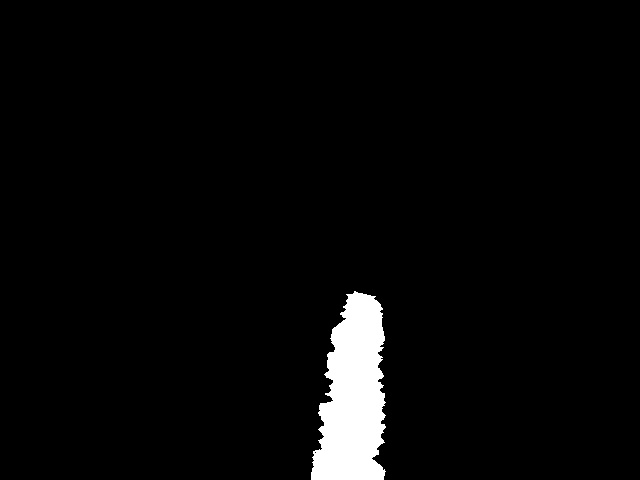
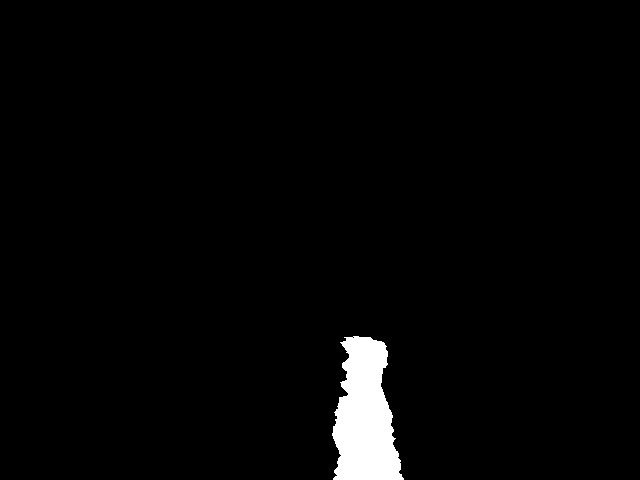
added a bunch tuning

Changed region(s): [[0.4688, 0.5938, 0.625, 1.0], [0.5625, 0.8438, 0.625, 1.0]]

diff --git a/code/src/brains/autonomous.py b/code/src/brains/autonomous.py
@@ -38,7 +38,7 @@ class Brain(base.Brain):
 
         # Find contours in the mask
         contours, _ = cv2.findContours(mask, cv2.RETR_TREE, cv2.CHAIN_APPROX_SIMPLE)
-
+        self.vehicle.stop()
         next_state = None
         if contours:
             # Assume the largest contour is the blue line
@@ -52,11 +52,21 @@ class Brain(base.Brain):
                 
                 img_center = image.shape[1] // 2  # Get the center x-coordinate of the image
                 
-                if cx < img_center - 50:  # Threshold to avoid minor deviations
-                    self.vehicle.turn_left(0.5)
+                # if cx < img_center - 50:  # Threshold to avoid minor deviations
+                #     self.vehicle.pivot_left(0.45)
+                #     print("Pivoting left")
+                # elif cx > img_center + 50:
+                #     self.vehicle.pivot_right(0.45)
+                #     print("Pivoting right")
+                # else:
+                #     self.vehicle.drive_forward(0.5) # TODO: tune
+                #     print("Driving forward")
+                
+                if cx < img_center - 75:  # Threshold to avoid minor deviations
+                    self.vehicle.turn_left(0.45)
                     print("Turning left")
-                elif cx > img_center + 50:
-                    self.vehicle.turn_right(0.5)
+                elif cx > img_center + 75:
+                    self.vehicle.turn_right(0.45)
                     print("Turning right")
                 else:
                     self.vehicle.drive_forward(0.6) # TODO: tune
@@ -65,11 +75,12 @@ class Brain(base.Brain):
                 next_state = "forward"
             else:
                 print("Contour too small or not detected")  # Default action if contour is too small or not detected
-                # self.vehicle.stop()
+                self.vehicle.stop()
                 next_state = "forward"
                 # TODO: do something different maybe
         else:
             print("No blue line detected")  # Default action if no blue line is detected
+            self.vehicle.stop()
             next_state = "forward"
             # TODO: do something different maybe
             
@@ -87,24 +98,92 @@ class Brain(base.Brain):
         # self.vehicle.pivot_left(0.4) # TODO: tune # whatever number is here (will have to test) Turning right to then go forward and avoid obstacle
         # time.sleep(1) # TODO: tune # whatever number is here (will have to test)  Turning right to then go forward and avoid obstacle
         self.vehicle.rotate_right()
-
-        # time.sleep(0.5)
-        print(self.distance_sensors[1].distance)
+         
         while self.distance_sensors[1].distance != 1.0: # TODO: tune # while the distance from the left sensor to the obstacle is < 0.6, move forward
-            self.vehicle.drive_forward(1) # TODO: tune
+            print(self.distance_sensors[1].distance)
+            self.vehicle.stop()
+            if self.distance_sensors[1].distance < 0.06:
+                # self.vehicle.pivot_right(0.4)
+                self.vehicle.turn_right(0.6)
+                time.sleep(0.15)
+            elif 0.05 <= self.distance_sensors[1].distance < 0.22:
+                self.vehicle.drive_forward(0.6)
+                time.sleep(0.15)
+            elif self.distance_sensors[1].distance == 1.0:
+                while self.distance_sensors[1].distance == 1.0:
+                    self.vehicle.turn_left(0.6)
+                    time.sleep(0.15)
+                    self.vehicle.stop()
+                    time.sleep(0.1)
+            else:
+                # self.vehicle.pivot_left(0.4)
+                self.vehicle.turn_left(0.45)
+                time.sleep(0.15)
+            # self.vehicle.drive_forward(0.8) # TODO: tune
             # self.vehicle.drive(0.5, True, 0.5, True)
-        
-        print(self.distance_sensors[1].distance)
-        self.vehicle.stop()
-        self.vehicle.rotate_left() # TODO: tune # whatever number is here (will have to test)  Turning left to then go forward and avoid obstacle
-        
-        print(self.distance_sensors[1].distance)
-        while self.distance_sensors[1].distance != 1.0: # TODO: tune # while the distance from the left sensor to the obstacle is < 0.6, move forward
-            self.vehicle.drive_forward(1) # TODO: tune
+            
+        # while self.distance_sensors[1].distance > 0.6:
+        #     self.vehicle.pivot_left(0.6)
+            
             
         print(self.distance_sensors[1].distance)
         self.vehicle.stop()
-        self.vehicle.rotate_left() 
+        time.sleep(0.1)
+        
+        # print("turning left")
+        while self.distance_sensors[1].distance == 1.0:
+            self.vehicle.turn_left(0.6)
+            time.sleep(0.15)
+            self.vehicle.stop()
+            time.sleep(0.1)
+        # self.vehicle.turn_left(0.6)
+        # time.sleep(0.45)
+        # self.vehicle.stop()
+        # time.sleep(0.1)
+        
+        print("driving forward")
+        self.vehicle.drive_forward(0.6)
+        time.sleep(0.6)
+        self.vehicle.stop()
+        time.sleep(0.1)
+        
+        while self.distance_sensors[1].distance == 1.0:
+            self.vehicle.turn_left(0.6)
+            time.sleep(0.15)
+            self.vehicle.stop()
+            time.sleep(0.1)
+        
+        print(self.distance_sensors[1].distance)
+        while self.distance_sensors[1].distance != 1.0:
+            print("starting on right edge")
+            print(self.distance_sensors[1].distance)
+            self.vehicle.stop()
+            if self.distance_sensors[1].distance < 0.05:
+                # self.vehicle.pivot_right(0.4)
+                self.vehicle.turn_right(0.6)
+                time.sleep(0.15)
+            elif 0.05 <= self.distance_sensors[1].distance < 0.25:
+                self.vehicle.drive_forward(0.6)
+                time.sleep(0.15)
+            else:
+                # self.vehicle.pivot_left(0.4)
+                self.vehicle.turn_left(0.6)
+                time.sleep(0.15)
+        
+        
+        # # while self.distance_sensors[1].distance > 0.6:
+        # # self.vehicle.rotate_left() # TODO: tune # whatever number is here (will have to test)  Turning left to then go forward and avoid obstacle
+        
+        # print(self.distance_sensors[1].distance)
+        # while self.distance_sensors[1].distance != 1.0: # TODO: tune # while the distance from the left sensor to the obstacle is < 0.6, move forward
+        #     self.vehicle.drive_forward(1) # TODO: tune
+            
+        # print(self.distance_sensors[1].distance)
+        # self.vehicle.stop()
+        # self.vehicle.rotate_left() 
+        
+        
+        
         # stop when cleared obstacle horizontally 
         # self.vehicle.pivot_right(0.4) # Turning left to then go forward and get around obstacle
         # time.sleep(0.2) # Turning left to then go forward to get around obstacle 

diff --git a/code/src/vehicle.py b/code/src/vehicle.py
@@ -62,10 +62,10 @@ class Vehicle:
         time.sleep(1)
 
     def turn_left(self, speed: float = 1.0) -> None:
-        self.left_motor.forward(speed)
+        self.right_motor.forward(speed)
 
     def turn_right(self, speed: float = 1.0) -> None:
-        self.right_motor.forward(speed)
+        self.left_motor.forward(speed)
 
     def drive(self, left_speed: float, left_direction: bool, right_speed: float, right_direction: bool) -> None:
         """Control each motor's speed and direction independently"""
